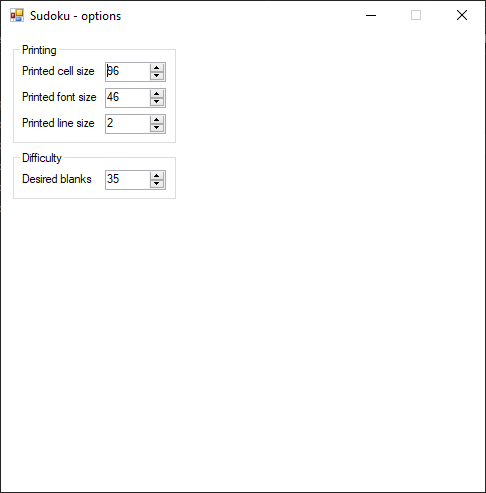
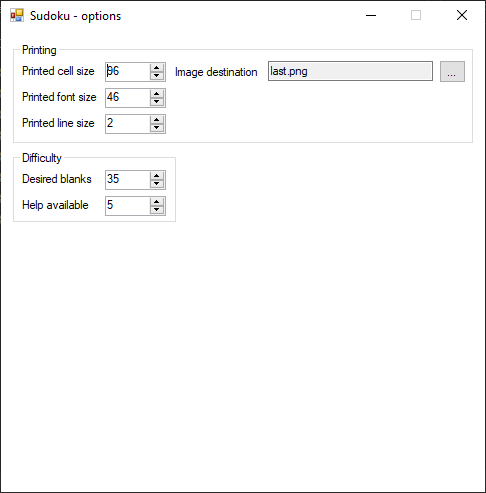
Updated README.md and Options.png to latest version

diff --git a/README.md b/README.md
@@ -31,6 +31,8 @@ Application contains the following Options possible to change:
 - Printed cell size (this is size in pixels of a single sudoku cell)
 - Printed font size (size of the font used to draw digits inside of cells)
 - Printed line size (size of lines between cells)
+- Image destination (where the sudoku is saved for printing)
 - Desired blanks (target blank cells application tries to achieve)
+- Help available (tells how many times you can receive help during puzzle)
 
 ![options](images/Options.png)
